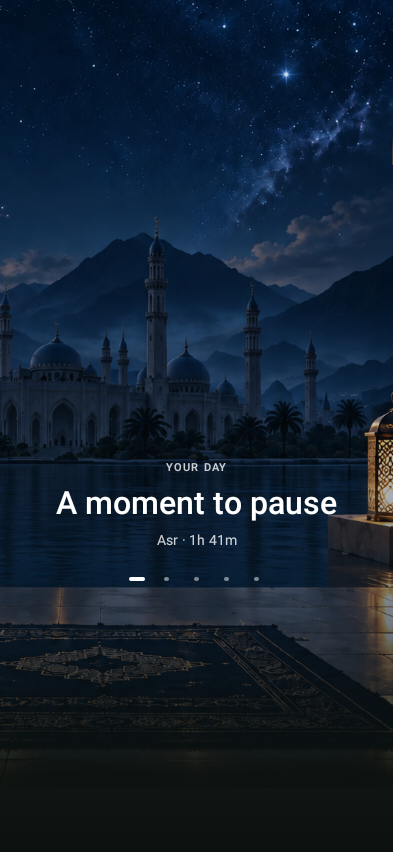
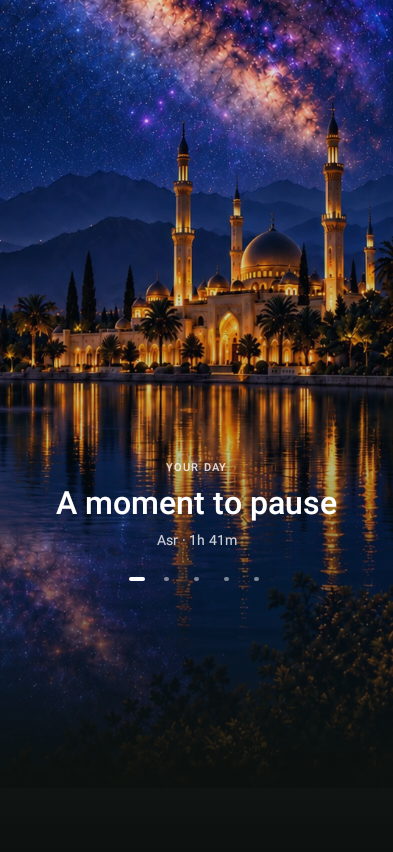
Use current Prayer Now artwork across home and insight tile

diff --git a/app/src/main/kotlin/com/starception/submission/feature/prayertimes/SwipeableBigTiles.kt b/app/src/main/kotlin/com/starception/submission/feature/prayertimes/SwipeableBigTiles.kt
@@ -243,8 +243,8 @@ import com.starception.submission.core.designsystem.theme.QuranFonts
 import com.starception.submission.core.duadatabase.Dua
 import com.starception.submission.core.images.resources.insight_prayer_background
 import com.starception.submission.core.images.resources.insight_prayer_foreground
-import com.starception.submission.core.images.resources.insight_prayer_poster_day
-import com.starception.submission.core.images.resources.insight_prayer_poster_night
+import com.starception.submission.core.images.resources.prayer_now_insight_day
+import com.starception.submission.core.images.resources.prayer_now_insight_night
 import com.starception.submission.core.images.resources.insight_qibla_background
 import com.starception.submission.core.images.resources.insight_qibla_foreground_v2
 import com.starception.submission.core.images.resources.insight_quran_background
@@ -3101,9 +3101,9 @@ private fun PrayerPosterInsightCard(
             statusMetaText = statusMetaText,
             weatherThresholds = weatherThresholds,
             backgroundPainterRes = if (effectiveIsNight) {
-                ImageRes.drawable.insight_prayer_poster_night
+                ImageRes.drawable.prayer_now_insight_night
             } else {
-                ImageRes.drawable.insight_prayer_poster_day
+                ImageRes.drawable.prayer_now_insight_day
             },
             animateWater = !effectiveIsNight,
             backgroundBaseScale = 1.018f,

diff --git a/app/src/main/kotlin/com/starception/submission/feature/prayertimes/ImmersiveHomeCover.kt b/app/src/main/kotlin/com/starception/submission/feature/prayertimes/ImmersiveHomeCover.kt
@@ -37,13 +37,13 @@ import com.starception.submission.core.images.resources.insight_prayer_backgroun
 import com.starception.submission.core.images.resources.insight_qibla_background
 import com.starception.submission.core.images.resources.insight_quran_background
 import com.starception.submission.core.images.resources.insight_suggestion
-import com.starception.submission.core.images.resources.insight_prayer_poster_day
-import com.starception.submission.core.images.resources.insight_prayer_poster_night
+import com.starception.submission.core.images.resources.prayer_now_insight_day
+import com.starception.submission.core.images.resources.prayer_now_insight_night
 import org.jetbrains.compose.resources.DrawableResource
 import kotlinx.coroutines.launch
 
 internal fun homeCoverArtwork(page: Int, useNightArtwork: Boolean): DrawableResource = when (page) {
-    0 -> if (useNightArtwork) Res.drawable.insight_prayer_poster_night else Res.drawable.insight_prayer_poster_day
+    0 -> if (useNightArtwork) Res.drawable.prayer_now_insight_night else Res.drawable.prayer_now_insight_day
     1 -> Res.drawable.insight_prayer_background
     2 -> Res.drawable.insight_quran_background
     3 -> Res.drawable.insight_qibla_background
